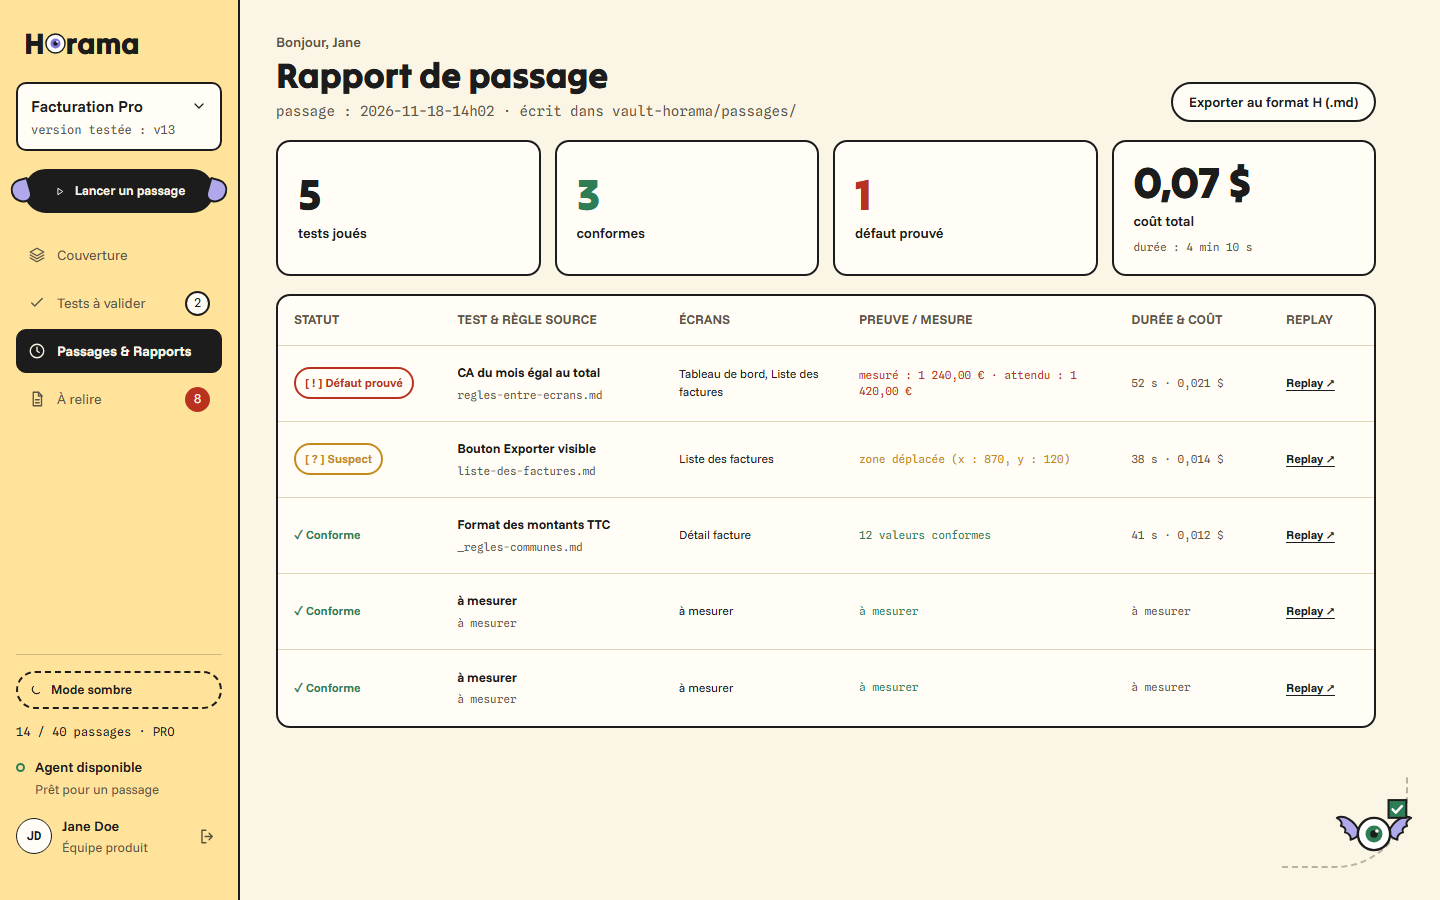
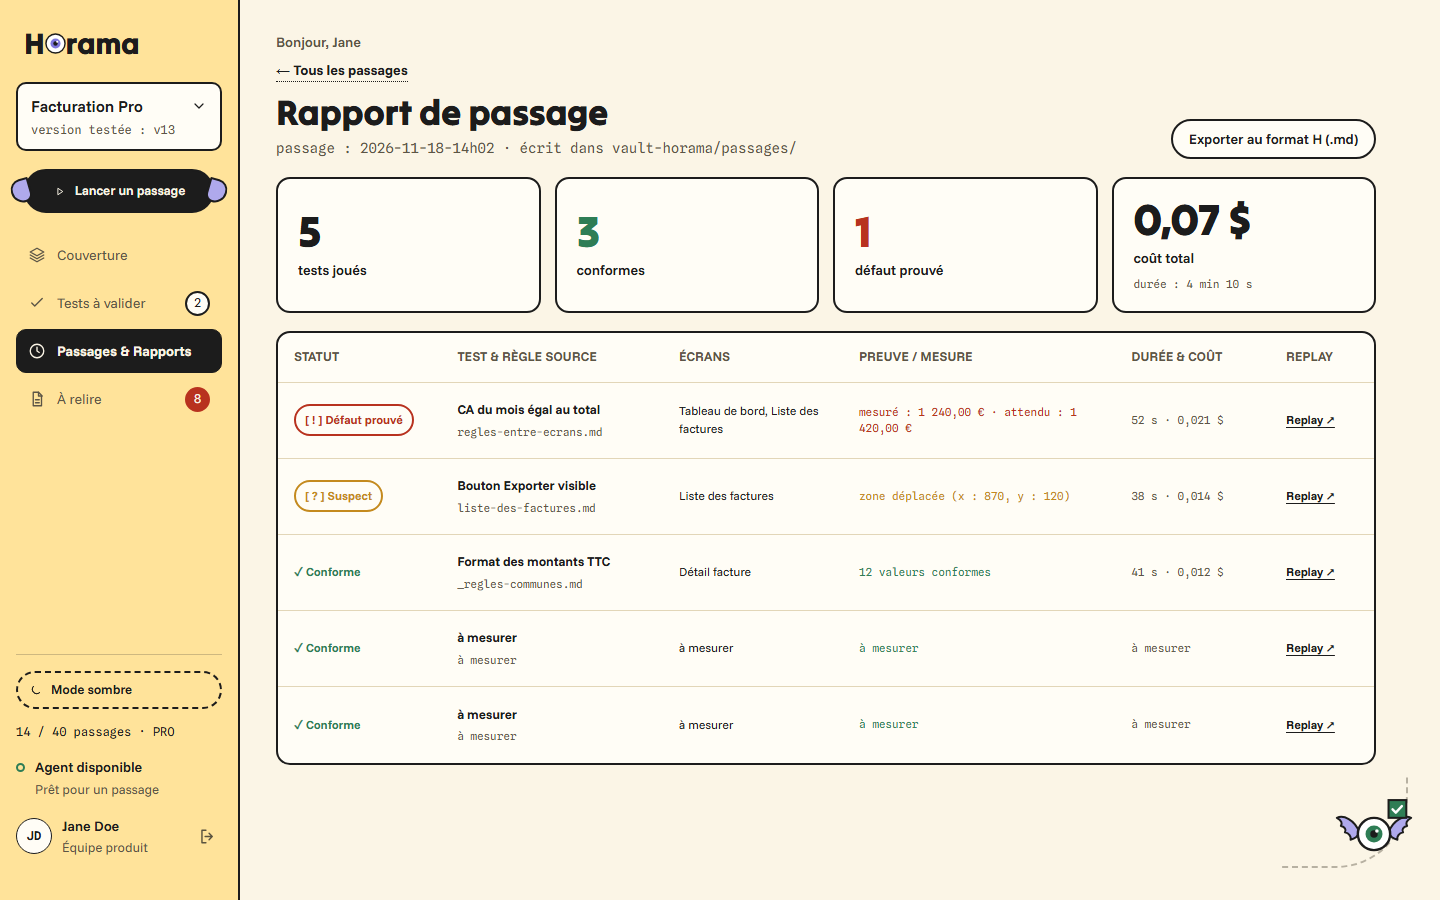
Interface Figma : écran 11.8 « Passages et historique », fichier de référence dans l'équipe de la CDO, améliorations prévues
- Écran 11.8 (F35) : liste des passages et journal des décisions filtrable ; « Passages & Rapports » y mène.
- Le prototype de référence est maintenant la copie dans l'équipe de la CDO (version 39).
- ameliorations.md : ce qui manque à chaque écran au regard du cadrage (F1 à F39) et des contrats C3 à C5, dont le journal détaillé de l'agent ; demande Figma prête à coller.
- 8 captures reprises sur la copie de référence, à 1440 × 900.

diff --git a/docs/da/interface-envoye/ameliorations.md b/docs/da/interface-envoye/ameliorations.md
@@ -1,0 +1,55 @@
+# Améliorations des écrans, alignées sur le cadrage et les contrats (CDO, 19/11)
+
+Cette analyse passe les 8 écrans du prototype Figma Make en revue. Pour chacun, elle note ce qui manque par rapport aux fonctionnalités du cadrage (`docs/cadrage.md`, F1 à F39) et aux contrats de données gelés (`contrats/types.ts`, C1 à C8). Rien ici n'ajoute de champ à un contrat : chaque information affichée existe déjà dans un contrat.
+
+**État : à faire.** Les crédits d'IA de Figma Make sont épuisés, dans l'équipe du CPO comme dans celle de la CDO. La demande prête à coller est dans `demande-figma-ameliorations.txt`.
+
+## Priorité 1 : un journal détaillé de l'agent (11.8 et 11.3)
+
+Le but : savoir exactement où et quand chaque chose s'est passée pendant un passage, pour pouvoir la retrouver.
+
+Sur 11.8, chaque ligne de passage se déplie et montre le **journal de l'agent**, test par test. Chaque étape affiche des champs qui existent déjà dans les contrats :
+
+| Affiché | Champ du contrat |
+|---|---|
+| heure exacte et numéro d'étape | `EvenementFil.horodatage`, `etape` (C3) |
+| test en cours | `EvenementFil.test_id` (C3) |
+| action de l'agent (« Ouvre « Factures » ») | `EvenementFil.action` (C3) |
+| page où il se trouve (adresse) et écran reconnu | `Capture.url_page`, `ecran`, `vue` (C3) |
+| position de défilement | `Capture.defilement` (C3) |
+| vignette de la capture, qui s'agrandit au clic | `Capture.url`, `EvenementFil.capture_url` (C3) |
+| état de la session : en cours, attente d'un outil, relancée, abandonnée | `EvenementFil.etat_session` (C3), relance F16 |
+| résultat de la vérification à cette étape (« mesuré / attendu ») | `ResultatVerification` (C4) |
+| lien vers le replay de la session H | F15 |
+
+Le journal se filtre par test, par écran et par statut (conforme, suspect, défaut prouvé, non concluant). On peut aussi y chercher une adresse ou un texte. Une étape « non concluant » montre pourquoi : session figée, relance, abandon après 45 s.
+
+Sur 11.3 (passage en direct), un clic sur une étape du fil affiche sa capture à droite. Le fil de 11.3 et le journal de 11.8 sont donc le même objet : l'un en direct, l'autre après coup.
+
+Dans le journal des décisions de 11.8, chaque décision montre aussi sa portée (« cet écart, cet écran, cette version »), la zone, la version, le « pourquoi » s'il a été donné, et la correction de note proposée, acceptée ou refusée (`Decision`, C5).
+
+## Écran par écran
+
+| Écran | Ce qui manque | Fonctionnalité ou contrat |
+|---|---|---|
+| 11.1 Couverture | Repérer les notes modifiées depuis le dernier passage (pastille « modifiée ») | F4 |
+| 11.1 Couverture | La carte de couverture : pour chaque note, quelles règles ont un test et lesquelles n'en ont pas | F9 |
+| 11.2 Tests à valider | Passer d'un test proposé à l'autre (« 2 tests proposés », un seul est visible) | F10, C1 |
+| 11.2 Tests à valider | Un lien vers la note source dans le vault | F3, C1 |
+| 11.3 Passage en direct | Un clic sur une étape affiche sa capture ; l'état de la session (relance, abandon) est visible | F13, F16, C3 |
+| 11.3 Passage en direct | La question que l'agent pose pendant la session, à laquelle on répond sans quitter l'écran | F29 (P1) |
+| 11.4 Rapport | Le 4e statut, « non concluant », dans le résumé et le tableau (seuls 3 statuts sont montrés) | F25, section 8.1 du cadrage |
+| 11.4 Rapport | Le chemin où le rapport est écrit dans le vault, avec le logiciel (`vault-horama/<logiciel>/passages/`) | F36, C6 |
+| 11.5 Comparaison | Le tableau des valeurs relevées : version précédente, version testée, attendu selon la règle | F21, C4 |
+| 11.6 À relire | Le « pourquoi » facultatif sous les boutons « C'est un bug » et « C'est voulu » | F27, `Decision.pourquoi` (C5) |
+| 11.6 À relire | La portée de la décision, écrite clairement (« cet écart, cet écran, cette version ») | F31, `Decision.portee` (C5) |
+| 11.6 À relire | « Créer l'issue GitHub » pour un bug confirmé, avec captures et replay | F30 (P1) |
+| 11.7 Dérive documentaire | Le statut de la correction (proposée, acceptée, refusée) affiché dans le journal | F33, `Decision.correction_de_note` (C5) |
+| 11.8 Historique | Le journal détaillé de l'agent (voir plus haut) | F13, F35, C3, C4, C5 |
+| Barre latérale | Une notification quand des cas attendent (badge sur « À relire », déjà présent) : rien à ajouter | F28 |
+
+## Ce qui est volontairement laissé de côté
+
+- Les tableaux des maquettes affichent « à mesurer » ou des valeurs d'exemple : aucun chiffre n'est inventé comme s'il était mesuré.
+- L'import Notion et Confluence (F5) et le tableau de bord du banc (F38) ne sont pas des écrans de cette application.
+- Aucun champ n'est ajouté aux contrats : s'il en fallait un, la demande passerait par le gardien du contrat.

diff --git a/docs/da/interface-envoye/ecrans.md b/docs/da/interface-envoye/ecrans.md
@@ -1,10 +1,10 @@
-# Les 7 écrans de Horama : à quoi sert chacun
+# Les 8 écrans de Horama : à quoi sert chacun
 
 Horama lit la documentation d'une équipe produit (un vault Obsidian) et en tire des tests. Un humain valide ces tests. L'agent H les joue sur le vrai logiciel, et le code vérifie les valeurs relevées. Chaque décision humaine met ensuite le vault à jour.
 
 Les 7 écrans suivent ce chemin, dans l'ordre : **voir où on en est → valider les tests → regarder le passage → lire le rapport → comparer → trancher → corriger la doc.**
 
-Ils sont tous dans le fichier Figma Make principal ([lien](https://www.figma.com/make/95kAUa9u4Rg2A525f5OHtf)), et on passe de l'un à l'autre par le menu de gauche. La source est `docs/cadrage.md`, section 11.
+Ils sont tous dans le fichier Figma Make de référence ([lien](https://www.figma.com/make/OiXoK1VpUbFpsu7oPAIZEU), équipe de la CDO depuis le 19/11), et on passe de l'un à l'autre par le menu de gauche. La source est `docs/cadrage.md`, section 11.
 
 | # | Écran | La question à laquelle il répond | Mascotte |
 |---|---|---|---|
@@ -15,6 +15,9 @@ Ils sont tous dans le fichier Figma Make principal ([lien](https://www.figma.com
 | 11.5 | Comparaison des versions | Qu'est-ce qui a changé entre deux versions ? | trouve |
 | 11.6 | À relire | C'est un bug, ou c'est voulu ? | doute |
 | 11.7 | Dérive documentaire | La doc est-elle encore juste ? | fini |
+| 11.8 | Passages et historique | Qu'est-ce qui s'est passé, quand, et qui a tranché ? | regarde |
+
+L'écran 11.8 a été ajouté le 19/11 pour la fonctionnalité F35 (historique). Il ne fait pas partie des 7 écrans du cadrage. Les améliorations prévues pour tous les écrans, dont le journal détaillé de l'agent, sont dans `ameliorations.md`.
 
 Les chiffres affichés sur les maquettes (28 règles conformes sur 36, 8 cas à relire, 312 zones différentes, quota, coûts, durées) sont des valeurs d'exemple, pas des mesures. Seul l'écart 1 240,00 € / 1 420,00 € vient d'un passage réel (`docs/tests/2026-11-17-c4-coureur.md`).
 
@@ -124,7 +127,7 @@ D'autres surfaces existent dans le dépôt. Ce sont des pages web et une extensi
 
 Le cadrage ne prévoit pas d'autre écran d'application que ces 7.
 
-**Écran manquant repéré (19/11) : un historique.** La fonctionnalité F35 du cadrage (« historique par écran et par règle : quand ça a cassé, qui a tranché ») n'a pas d'écran. Aujourd'hui, l'entrée « Passages & Rapports » ouvre directement un seul rapport : il n'y a pas de liste des passages, ni de journal des décisions. Les données existent déjà dans le vault, rangées par logiciel (`passages/` et `decisions/`).
+**Historique (19/11) :** la fonctionnalité F35 du cadrage n'avait pas d'écran. C'est l'écran 11.8 « Passages et historique », ouvert par « Passages & Rapports » : la liste des passages, chacun menant à son rapport, et le journal des décisions, filtrable par écran et par règle.
 
 ## Ce que fait chaque bouton
 
@@ -141,6 +144,7 @@ Toutes les actions du prototype mènent quelque part (vérifié le 19/11 en cliq
 | 11.2 | une réponse à la question | « Réponse enregistrée dans le vault », la ligne Verification se met à jour |
 | 11.3 | « Voir le rapport → » | ouvre 11.4 |
 | 11.4 | « Exporter au format H (.md) » | télécharge le rapport en Markdown |
+| 11.4 | « ← Tous les passages » | ouvre 11.8 |
 | 11.4 | ligne « Défaut prouvé » | ouvre 11.6 |
 | 11.4 | ligne « Suspect » ou « Conforme » | ouvre 11.5 |
 | 11.5 | « Côte à côte », « Rideau », « Pixels bruts » | change la vue |
@@ -149,6 +153,8 @@ Toutes les actions du prototype mènent quelque part (vérifié le 19/11 en cliq
 | 11.6 | « C'est voulu » | la décision est gardée, puis ouvre 11.7 pour corriger la doc |
 | 11.6 | tous les cas tranchés | « Tout est tranché. Horama ne reposera pas ces questions. » |
 | 11.7 | « Corriger la note et ouvrir la PR » ou « Laisser la note telle quelle » | confirmation, puis retour à 11.6 |
+| 11.8 | une ligne de passage | ouvre son rapport 11.4 |
+| 11.8 | une décision du journal | « bug » ouvre 11.6, « voulu » avec note corrigée ouvre 11.7 ; les filtres par écran et par règle trient le journal |
 | partout | liens « Replay » | ouvrent le hub de H Company dans un nouvel onglet (pas encore le vrai replay de la session) |
 
 Ce sont des confirmations simulées : le prototype n'écrit rien dans le vault et n'ouvre aucune vraie PR.

diff --git a/docs/da/interface-envoye/README.md b/docs/da/interface-envoye/README.md
@@ -4,15 +4,18 @@ Les écrans de l'application, dans Figma Make, suivent la charte graphique « L'
 
 | Écran | Fichier Figma Make | Capture | Mascotte |
 |---|---|---|---|
-| 11.1 Couverture | [Concevoir l'interface Horama (light mode) (copie) (copie)](https://www.figma.com/make/95kAUa9u4Rg2A525f5OHtf) | `11-1-couverture.png` | `regarde` (iris `#7F77DD`, sans badge) |
+| 11.1 Couverture | [Horama, prototype de référence](https://www.figma.com/make/OiXoK1VpUbFpsu7oPAIZEU) | `11-1-couverture.png` | `regarde` (iris `#7F77DD`, sans badge) |
 | 11.2 Tests à valider (de la note au test) | même fichier, route `#screen-11-2` | `11-2-tests-a-valider.png` | `doute` (iris ocre, badge « ? ») |
 | 11.3 Passage en cours | même fichier que 11.1, route `#screen-11-3` | `11-3-passage-en-cours.png` | `regarde` |
 | 11.4 Rapport de passage | même fichier, route `#screen-11-4` | `11-4-rapport-de-passage.png` | `fini` (iris olivier, coche) |
 | 11.5 Comparaison des versions | même fichier, route `#screen-11-5` | `11-5-comparaison-des-versions.png` | `trouve` (iris miltos, badge « ! ») |
 | 11.6 À relire | même fichier, route `#screen-11-6` | `11-6-a-relire.png` | `doute` |
 | 11.7 Dérive documentaire | même fichier, route `#screen-11-7` | `11-7-derive-documentaire.png` | `fini` |
+| 11.8 Passages et historique | même fichier, route `#screen-11-8` | `11-8-passages-et-historique.png` | `regarde` |
 
-Navigation branchée : « Tests à valider » ouvre 11.2, « ▷ Lancer un passage » ouvre 11.3, « Passages & Rapports » ouvre 11.4, la ligne « Suspect » du rapport ouvre 11.5, « À relire » et « Ouvrir la relecture → » ouvrent 11.6, « C'est voulu » sur le second cas ouvre 11.7. L'entrée active du menu suit l'écran affiché.
+**Fichier de référence (19/11) :** les crédits d'IA de l'équipe du CPO étant épuisés, le prototype a été copié dans l'équipe de la CDO. C'est cette copie qui fait foi. L'ancien fichier de l'équipe du CPO s'arrête à la version 38, avant l'écran 11.8.
+
+Navigation branchée : « Tests à valider » ouvre 11.2, « ▷ Lancer un passage » ouvre 11.3, « Passages & Rapports » ouvre 11.8 (la liste des passages, puis chaque rapport 11.4), la ligne « Suspect » du rapport ouvre 11.5, « À relire » et « Ouvrir la relecture → » ouvrent 11.6, « C'est voulu » sur le second cas ouvre 11.7. L'entrée active du menu suit l'écran affiché.
 
 ## Ce qui a été appliqué
 
